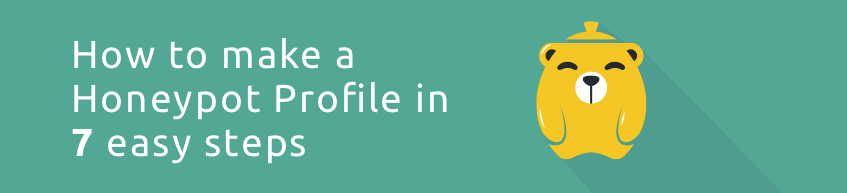
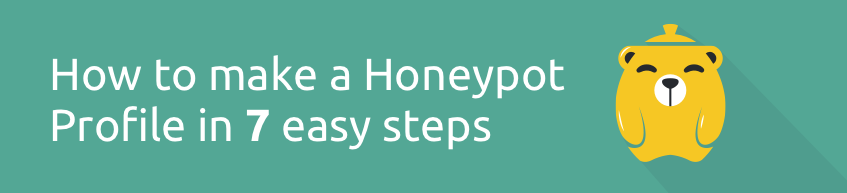
added all the sizes for blog cover images

Changed region(s): [[0.0614, 0.0933, 0.8595, 0.8394]]

diff --git a/_posts/2018-02-09-how-to-make-a-honeypot-profile-in-seven-easy-steps.md b/_posts/2018-02-09-how-to-make-a-honeypot-profile-in-seven-easy-steps.md
@@ -1,5 +1,5 @@
 ---
-title:   A Step by Step Guide
+title:   How to make a Honeypot Profile in 7 easy steps
 subtitle:
 date:    2018-02-09 09:29:52
 layout:  post
